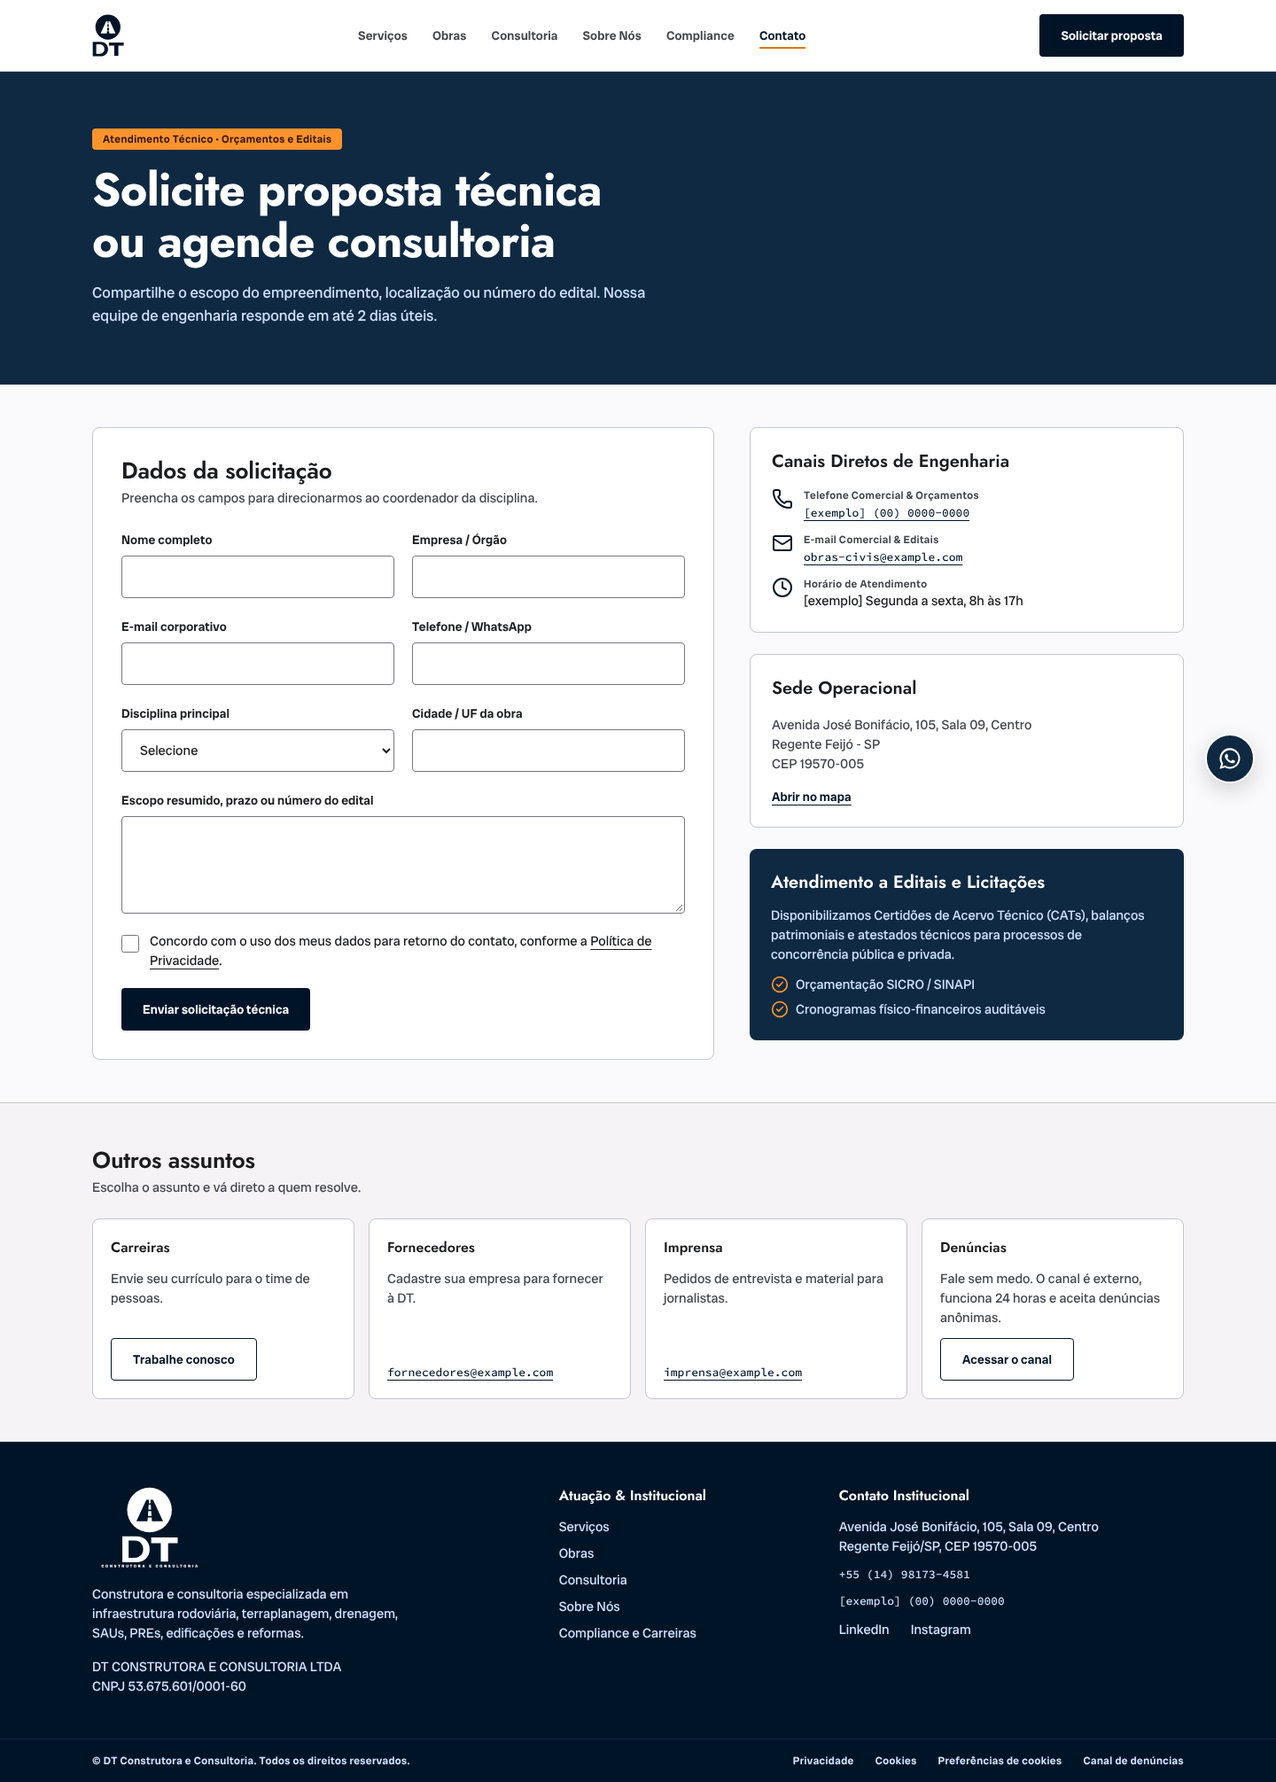
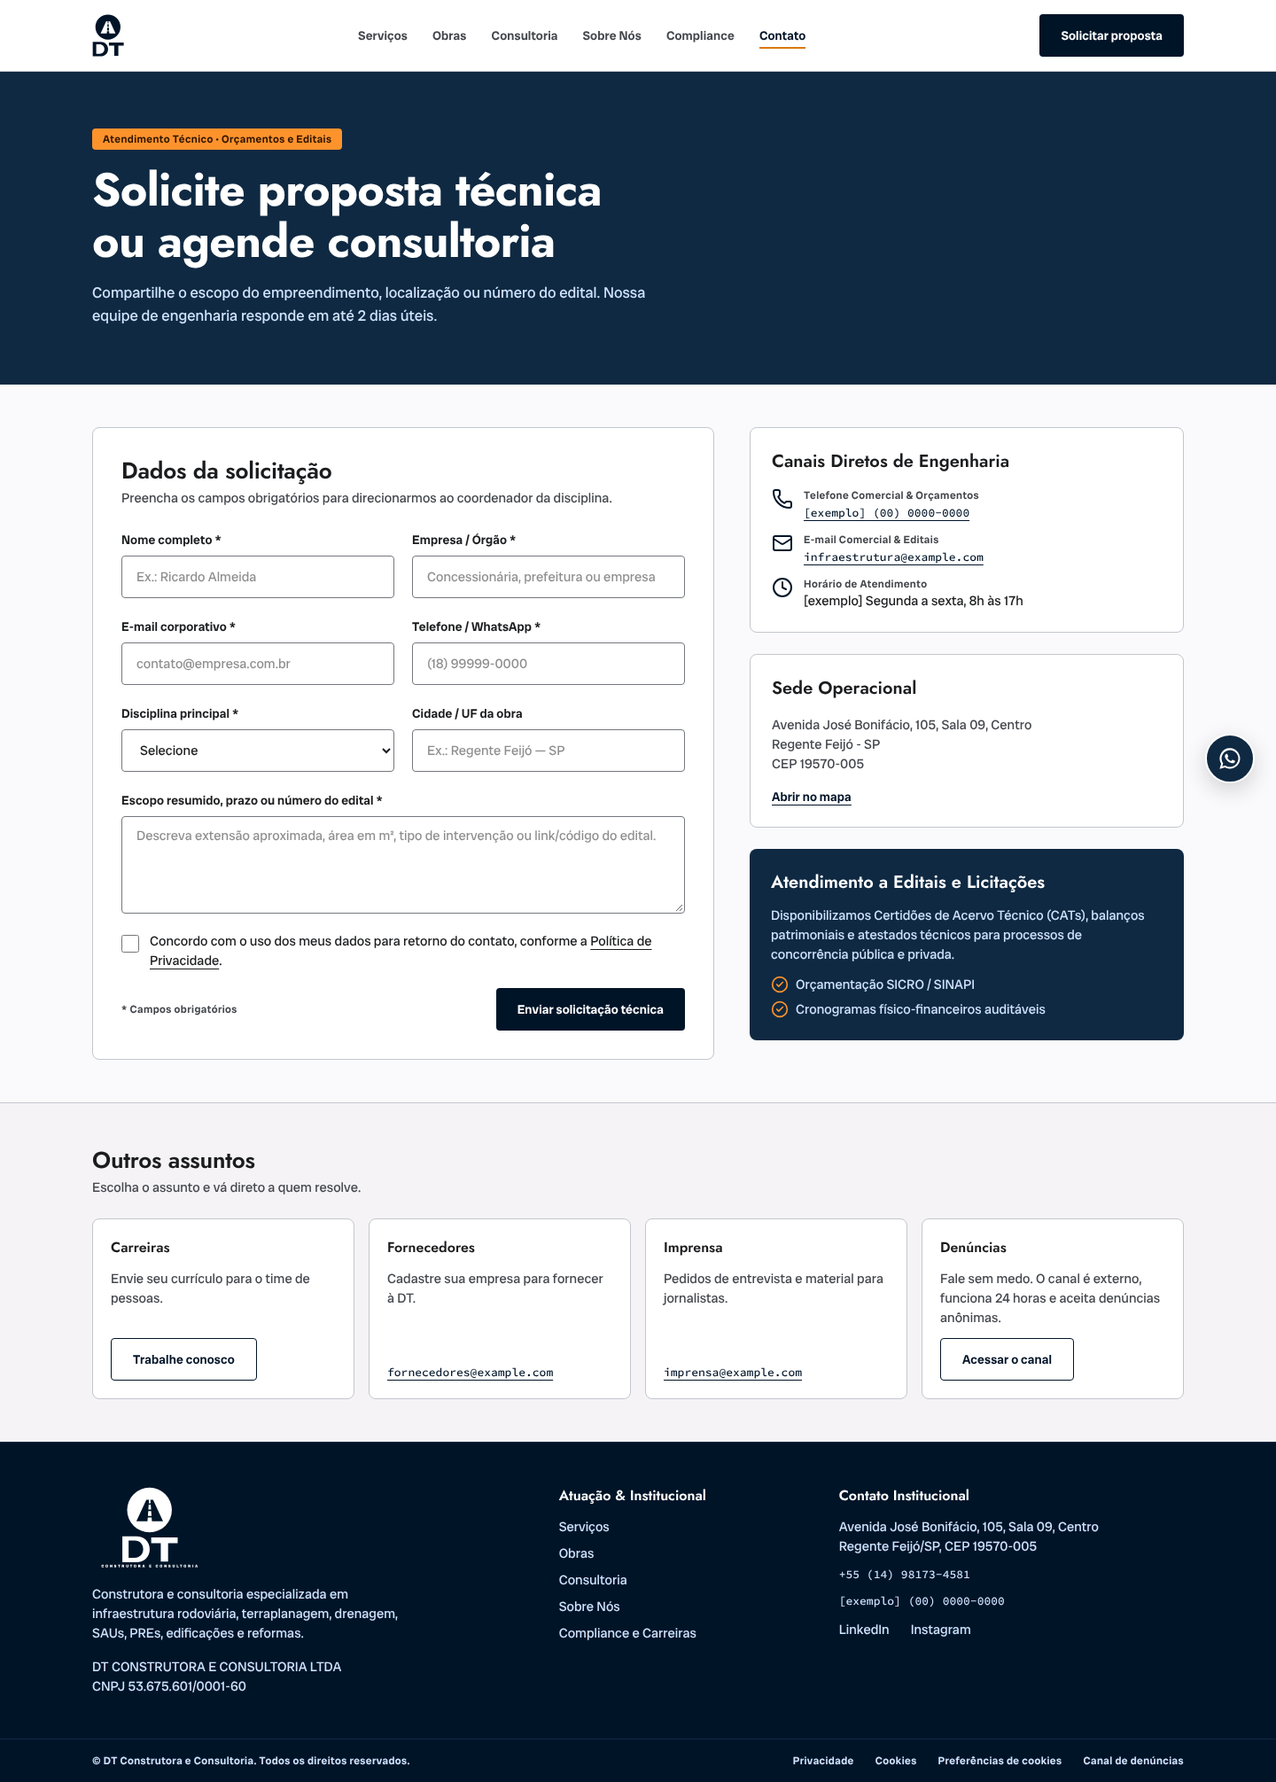
fix(layout): rótulos de disciplina, campos obrigatórios e minors do contato
Claude-Session: https://claude.ai/code/session_01FCUcKQCo7QrA5m6Gjb2c3P

diff --git a/src/components/forms/LeadForm.tsx b/src/components/forms/LeadForm.tsx
@@ -4,9 +4,9 @@ import { useActionState, useEffect, useRef } from "react";
 import { submitLead, type LeadFormState } from "@/app/contato/actions";
 import { Button } from "@/components/ui/Button";
 import { track } from "@/lib/analytics/track";
-import { DISCIPLINA_LABEL, DISCIPLINAS, type Disciplina } from "@/lib/disciplinas";
+import { DISCIPLINA_OPCAO, DISCIPLINAS, type Disciplina } from "@/lib/disciplinas";
 import { CONTROL_CLASS, Field } from "./Field";
-import { ConsentField, Honeypot, recoverAfterError, TurnstileWidget } from "./FormGuards";
+import { ConsentField, Honeypot, recoverAfterError, RequiredLegend, TurnstileWidget } from "./FormGuards";
 
 const SUCCESS = "Recebemos sua mensagem. Nossa equipe responde em até 2 dias úteis.";
 
@@ -53,36 +53,36 @@ export function LeadForm({ disciplinaInicial, origem, whatsappHref }: LeadFormPr
       )}
 
       <div className="grid gap-5 md:grid-cols-2">
-        <Field id="nome" label="Nome completo" error={errors.nome}>
-          {(a) => <input {...a} name="nome" type="text" autoComplete="name" defaultValue={values.nome} className={CONTROL_CLASS} />}
+        <Field id="nome" label="Nome completo" required error={errors.nome}>
+          {(a) => <input {...a} name="nome" placeholder="Ex.: Ricardo Almeida" type="text" autoComplete="name" defaultValue={values.nome} className={CONTROL_CLASS} />}
         </Field>
-        <Field id="empresa" label="Empresa / Órgão" error={errors.empresa}>
-          {(a) => <input {...a} name="empresa" type="text" autoComplete="organization" defaultValue={values.empresa} className={CONTROL_CLASS} />}
+        <Field id="empresa" label="Empresa / Órgão" required error={errors.empresa}>
+          {(a) => <input {...a} name="empresa" placeholder="Concessionária, prefeitura ou empresa" type="text" autoComplete="organization" defaultValue={values.empresa} className={CONTROL_CLASS} />}
         </Field>
-        <Field id="email" label="E-mail corporativo" error={errors.email}>
-          {(a) => <input {...a} name="email" type="email" autoComplete="email" defaultValue={values.email} className={CONTROL_CLASS} />}
+        <Field id="email" label="E-mail corporativo" required error={errors.email}>
+          {(a) => <input {...a} name="email" placeholder="contato@empresa.com.br" type="email" autoComplete="email" defaultValue={values.email} className={CONTROL_CLASS} />}
         </Field>
-        <Field id="telefone" label="Telefone / WhatsApp" error={errors.telefone}>
-          {(a) => <input {...a} name="telefone" type="tel" autoComplete="tel" defaultValue={values.telefone} className={CONTROL_CLASS} />}
+        <Field id="telefone" label="Telefone / WhatsApp" required error={errors.telefone}>
+          {(a) => <input {...a} name="telefone" placeholder="(18) 99999-0000" type="tel" autoComplete="tel" defaultValue={values.telefone} className={CONTROL_CLASS} />}
         </Field>
-        <Field id="disciplina" label="Disciplina principal" error={errors.disciplina}>
+        <Field id="disciplina" label="Disciplina principal" required error={errors.disciplina}>
           {(a) => (
             <select {...a} key={values.disciplina ?? "inicial"} name="disciplina" defaultValue={values.disciplina ?? disciplinaInicial ?? ""} className={CONTROL_CLASS}>
               <option value="">Selecione</option>
               {DISCIPLINAS.map((d) => (
                 <option key={d} value={d}>
-                  {DISCIPLINA_LABEL[d]}
+                  {DISCIPLINA_OPCAO[d]}
                 </option>
               ))}
             </select>
           )}
         </Field>
         <Field id="cidadeUf" label="Cidade / UF da obra" error={errors.cidadeUf}>
-          {(a) => <input {...a} name="cidadeUf" type="text" autoComplete="address-level2" defaultValue={values.cidadeUf} className={CONTROL_CLASS} />}
+          {(a) => <input {...a} name="cidadeUf" placeholder="Ex.: Regente Feijó — SP" type="text" autoComplete="address-level2" defaultValue={values.cidadeUf} className={CONTROL_CLASS} />}
         </Field>
       </div>
-      <Field id="escopo" label="Escopo resumido, prazo ou número do edital" error={errors.escopo}>
-        {(a) => <textarea {...a} name="escopo" rows={4} defaultValue={values.escopo} className={CONTROL_CLASS} />}
+      <Field id="escopo" label="Escopo resumido, prazo ou número do edital" required error={errors.escopo}>
+        {(a) => <textarea {...a} name="escopo" placeholder="Descreva extensão aproximada, área em m², tipo de intervenção ou link/código do edital." rows={4} defaultValue={values.escopo} className={CONTROL_CLASS} />}
       </Field>
 
       <ConsentField error={errors.consentimento}>Concordo com o uso dos meus dados para retorno do contato, conforme a</ConsentField>
@@ -92,8 +92,9 @@ export function LeadForm({ disciplinaInicial, origem, whatsappHref }: LeadFormPr
       <Honeypot />
       <TurnstileWidget />
 
-      <div>
-        <Button type="submit" disabled={pending} aria-disabled={pending}>
+      <div className="flex flex-wrap items-center justify-between gap-4">
+        <RequiredLegend />
+        <Button type="submit" disabled={pending} aria-disabled={pending} className="w-full sm:w-auto">
           {pending ? "Enviando…" : "Enviar solicitação técnica"}
         </Button>
       </div>

diff --git a/src/components/forms/CandidaturaForm.tsx b/src/components/forms/CandidaturaForm.tsx
@@ -4,7 +4,7 @@ import { useActionState, useEffect, useRef } from "react";
 import { submitCandidatura, type CandidaturaFormState } from "@/app/compliance/actions";
 import { Button } from "@/components/ui/Button";
 import { CONTROL_CLASS, Field } from "./Field";
-import { ConsentField, Honeypot, recoverAfterError, TurnstileWidget } from "./FormGuards";
+import { ConsentField, Honeypot, recoverAfterError, RequiredLegend, TurnstileWidget } from "./FormGuards";
 
 export const SUCCESS = "Recebemos sua candidatura. Se houver uma vaga compatível, entraremos em contato.";
 
@@ -38,18 +38,18 @@ export function CandidaturaForm({ areas }: { areas: string[] }) {
         </div>
       )}
 
-      <Field id="nome" label="Nome completo" error={errors.nome}>
+      <Field id="nome" label="Nome completo" required error={errors.nome}>
         {(a) => <input {...a} name="nome" type="text" autoComplete="name" defaultValue={values.nome} className={CONTROL_CLASS} />}
       </Field>
       <div className="grid grid-cols-1 gap-4 sm:grid-cols-2">
-        <Field id="email" label="E-mail" error={errors.email}>
+        <Field id="email" label="E-mail" required error={errors.email}>
           {(a) => <input {...a} name="email" type="email" autoComplete="email" defaultValue={values.email} className={CONTROL_CLASS} />}
         </Field>
-        <Field id="telefone" label="Telefone / WhatsApp" error={errors.telefone}>
+        <Field id="telefone" label="Telefone / WhatsApp" required error={errors.telefone}>
           {(a) => <input {...a} name="telefone" type="tel" autoComplete="tel" defaultValue={values.telefone} className={CONTROL_CLASS} />}
         </Field>
       </div>
-      <Field id={AREA_FIELD_ID} label="Área de interesse" error={errors.area}>
+      <Field id={AREA_FIELD_ID} label="Área de interesse" required error={errors.area}>
         {(a) => (
           // A chave remonta o select após um erro: `defaultValue` só vale na montagem.
           <select {...a} key={values.area ?? "inicial"} name="area" defaultValue={values.area ?? ""} className={CONTROL_CLASS}>
@@ -62,7 +62,7 @@ export function CandidaturaForm({ areas }: { areas: string[] }) {
           </select>
         )}
       </Field>
-      <Field id="resumo" label="Resumo de experiência / Link para currículo" error={errors.resumo}>
+      <Field id="resumo" label="Resumo de experiência / Link para currículo" required error={errors.resumo}>
         {(a) => (
           <textarea
             {...a}
@@ -82,9 +82,12 @@ export function CandidaturaForm({ areas }: { areas: string[] }) {
       <Honeypot />
       <TurnstileWidget />
 
-      <Button type="submit" disabled={pending} aria-disabled={pending} className="w-full">
-        {pending ? "Enviando…" : "Enviar candidatura"}
-      </Button>
+      <div className="flex flex-wrap items-center justify-between gap-4">
+        <RequiredLegend />
+        <Button type="submit" disabled={pending} aria-disabled={pending} className="w-full sm:w-auto">
+          {pending ? "Enviando…" : "Enviar candidatura"}
+        </Button>
+      </div>
     </form>
   );
 }

diff --git a/src/app/contato/page.tsx b/src/app/contato/page.tsx
@@ -39,8 +39,8 @@ export default async function ContatoPage({ searchParams }: { searchParams: Sear
   const { logradouro, cidade, uf, cep } = c.endereco;
   const mapa = `https://www.google.com/maps/search/?api=1&query=${encodeURIComponent(`${logradouro}, ${cidade} - ${uf}, ${cep}`)}`;
   const tel = c.telefone.replace(/[^\d+]/g, "");
-  const segmento: Segmento = disciplina ? DISCIPLINA_SEGMENTO[disciplina] : (Object.keys(c.emailsLead)[0] as Segmento);
-  const emailComercial = c.emailsLead[segmento];
+  const segmento: Segmento = disciplina ? DISCIPLINA_SEGMENTO[disciplina] : "infraestrutura";
+  const emailComercial = c.emailsLead[segmento] ?? Object.values(c.emailsLead).find(Boolean);
 
   return (
     <>
@@ -65,7 +65,7 @@ export default async function ContatoPage({ searchParams }: { searchParams: Sear
             <div className="flex flex-col gap-1">
               <h2 className="font-headline text-headline-md text-on-surface">Dados da solicitação</h2>
               <p className="font-body text-body-md text-on-surface-variant">
-                Preencha os campos para direcionarmos ao coordenador da disciplina.
+                Preencha os campos obrigatórios para direcionarmos ao coordenador da disciplina.
               </p>
             </div>
             <LeadForm disciplinaInicial={disciplina} origem={origem} whatsappHref={buildWhatsAppUrl(c.whatsapp, "/contato")} />
@@ -84,15 +84,17 @@ export default async function ContatoPage({ searchParams }: { searchParams: Sear
                     </a>
                   </div>
                 </li>
-                <li className="flex items-start gap-3">
-                  <Mail aria-hidden="true" className="size-6 shrink-0 text-primary" />
-                  <div>
-                    <span className={LABEL}>E-mail Comercial &amp; Editais</span>
-                    <a href={`mailto:${emailComercial}`} className={LINK}>
-                      {emailComercial}
-                    </a>
-                  </div>
-                </li>
+                {emailComercial && (
+                  <li className="flex items-start gap-3">
+                    <Mail aria-hidden="true" className="size-6 shrink-0 text-primary" />
+                    <div>
+                      <span className={LABEL}>E-mail Comercial &amp; Editais</span>
+                      <a href={`mailto:${emailComercial}`} className={LINK}>
+                        {emailComercial}
+                      </a>
+                    </div>
+                  </li>
+                )}
                 <li className="flex items-start gap-3">
                   <Clock aria-hidden="true" className="size-6 shrink-0 text-primary" />
                   <div>

diff --git a/src/components/forms/Field.tsx b/src/components/forms/Field.tsx
@@ -4,21 +4,26 @@ type FieldProps = {
   id: string;
   label: string;
   error?: string;
-  children: (a11y: { id: string; "aria-invalid"?: true; "aria-describedby"?: string }) => ReactNode;
+  /** Marca o campo como obrigatório: asterisco visual e `aria-required` no controle. */
+  required?: boolean;
+  children: (a11y: { id: string; "aria-required"?: true; "aria-invalid"?: true; "aria-describedby"?: string }) => ReactNode;
 };
 
 export const CONTROL_CLASS =
   "mt-1.5 block min-h-12 w-full rounded-sm border border-outline bg-surface-container-lowest px-4 py-2.5 font-body text-body-md text-on-surface aria-[invalid=true]:border-error focus-visible:border-primary focus-visible:outline-2 focus-visible:outline-offset-2 focus-visible:outline-primary";
 
 /** Rótulo + controle + erro ligados por `for`/`aria-describedby`; `children` recebe os atributos de a11y. */
-export function Field({ id, label, error, children }: FieldProps) {
+export function Field({ id, label, error, required, children }: FieldProps) {
   const errorId = `${id}-erro`;
   return (
     <div>
       <label htmlFor={id} className="font-label text-label-lg text-on-surface">
         {label}
+        {required && (
+          <span aria-hidden="true"> *</span>
+        )}
       </label>
-      {children({ id, ...(error ? { "aria-invalid": true as const, "aria-describedby": errorId } : {}) })}
+      {children({ id, ...(required ? { "aria-required": true as const } : {}), ...(error ? { "aria-invalid": true as const, "aria-describedby": errorId } : {}) })}
       {error && (
         <p id={errorId} className="mt-1.5 font-body text-body-md text-error">
           {error}

diff --git a/tests/e2e/contato.spec.ts b/tests/e2e/contato.spec.ts
@@ -87,6 +87,25 @@ test("funciona sem JavaScript", async ({ browser }) => {
   await ctx.close();
 });
 
+test("campos obrigatórios têm asterisco visual, aria-required e legenda; opções com o texto do layout", async ({ page }) => {
+  await page.goto("/contato");
+  for (const l of ["Nome completo", "Empresa / Órgão", "E-mail corporativo", "Telefone / WhatsApp", "Disciplina principal", "Escopo resumido, prazo ou número do edital"]) {
+    await expect(page.getByLabel(l)).toHaveAttribute("aria-required", "true");
+  }
+  await expect(page.getByLabel("Cidade / UF da obra")).not.toHaveAttribute("aria-required", "true");
+  await expect(page.getByText("* Campos obrigatórios")).toBeVisible();
+  await expect(page.getByText("Preencha os campos obrigatórios para direcionarmos ao coordenador da disciplina.")).toBeVisible();
+  const opcoes = await page.getByLabel("Disciplina principal").locator("option").allTextContents();
+  expect(opcoes).toEqual([
+    "Selecione",
+    "Obra rodoviária / pavimentação",
+    "Terraplanagem e drenagens",
+    "SAU / PRE rodoviário",
+    "Edificação / reforma predial",
+    "Consultoria / projeto / laudo",
+  ]);
+});
+
 test("consentimento não vem marcado", async ({ page }) => {
   await page.goto("/contato");
   await expect(page.getByLabel(/Concordo com o uso/)).not.toBeChecked();

diff --git a/src/lib/leads/send.ts b/src/lib/leads/send.ts
@@ -1,5 +1,5 @@
 import { Resend } from "resend";
-import { DISCIPLINA_LABEL, DISCIPLINA_SEGMENTO } from "@/lib/disciplinas";
+import { DISCIPLINA_OPCAO, DISCIPLINA_SEGMENTO } from "@/lib/disciplinas";
 import { SEGMENTO_LABEL } from "@/lib/segmentos";
 import type { Candidatura } from "./candidatura";
 import type { Lead } from "./schema";
@@ -9,12 +9,12 @@ const DEFAULT_FROM = "Site DT <site@dtconstrutora.com.br>";
 const oneLine = (s: string) => s.replace(/[\r\n\u0085\u2028\u2029]+/g, " ").trim();
 
 export function buildSubject(lead: Lead, unverified = false): string {
-  return `${unverified ? "[não verificado] " : ""}[Site] Lead ${DISCIPLINA_LABEL[lead.disciplina]} — ${oneLine(lead.empresa)}`;
+  return `${unverified ? "[não verificado] " : ""}[Site] Lead ${DISCIPLINA_OPCAO[lead.disciplina]} — ${oneLine(lead.empresa)}`;
 }
 
 function buildText(lead: Lead): string {
   return [
-    `Disciplina: ${DISCIPLINA_LABEL[lead.disciplina]}`,
+    `Disciplina: ${DISCIPLINA_OPCAO[lead.disciplina]}`,
     `Segmento: ${SEGMENTO_LABEL[DISCIPLINA_SEGMENTO[lead.disciplina]]}`,
     `Origem: ${lead.origem || "direto"}`,
     "",

diff --git a/tests/unit/leads/send.test.ts b/tests/unit/leads/send.test.ts
@@ -9,9 +9,9 @@ describe("send", () => {
   afterEach(() => vi.unstubAllEnvs());
 
   it("assunto segue o padrão e não aceita quebra de linha", () => {
-    expect(buildSubject(lead)).toBe("[Site] Lead Rodoviária e Pavimentação — Prefeitura de Exemplo");
+    expect(buildSubject(lead)).toBe("[Site] Lead Obra rodoviária / pavimentação — Prefeitura de Exemplo");
     expect(buildSubject({ ...lead, empresa: "A\r\nBcc: x@y.com\u0085\u2028\u2029B" })).not.toMatch(/[\r\n\u0085\u2028\u2029]/);
-    expect(buildSubject(lead, true)).toBe("[não verificado] [Site] Lead Rodoviária e Pavimentação — Prefeitura de Exemplo");
+    expect(buildSubject(lead, true)).toBe("[não verificado] [Site] Lead Obra rodoviária / pavimentação — Prefeitura de Exemplo");
   });
   it("sem RESEND_API_KEY usa transporte log, sem dados pessoais", async () => {
     vi.stubEnv("RESEND_API_KEY", "");

diff --git a/tests/unit/disciplinas.test.ts b/tests/unit/disciplinas.test.ts
@@ -3,6 +3,7 @@ import servicos from "@/lib/content/fixtures/servicos.json";
 import type { Servico } from "@/lib/content/types";
 import {
   DISCIPLINA_LABEL,
+  DISCIPLINA_OPCAO,
   DISCIPLINA_SEGMENTO,
   DISCIPLINAS,
   disciplinaDaObra,
@@ -20,6 +21,13 @@ describe("disciplinas", () => {
       "SAU e PRE",
       "Edificação e Reforma",
       "Consultoria",
+    ]);
+    expect(DISCIPLINAS.map((d) => DISCIPLINA_OPCAO[d])).toEqual([
+      "Obra rodoviária / pavimentação",
+      "Terraplanagem e drenagens",
+      "SAU / PRE rodoviário",
+      "Edificação / reforma predial",
+      "Consultoria / projeto / laudo",
     ]);
     expect(DISCIPLINA_SEGMENTO["edificacao-reforma"]).toBe("obras-civis");
     expect(DISCIPLINA_SEGMENTO.consultoria).toBe("infraestrutura");

diff --git a/src/lib/disciplinas.ts b/src/lib/disciplinas.ts
@@ -33,6 +33,15 @@ export const DISCIPLINA_LABEL: Record<Disciplina, string> = {
   consultoria: "Consultoria",
 };
 
+/** Texto das opções do formulário de contato e do assunto do e-mail (redação do layout). */
+export const DISCIPLINA_OPCAO: Record<Disciplina, string> = {
+  "rodoviaria-pavimentacao": "Obra rodoviária / pavimentação",
+  "terraplanagem-drenagens": "Terraplanagem e drenagens",
+  "sau-pre": "SAU / PRE rodoviário",
+  "edificacao-reforma": "Edificação / reforma predial",
+  consultoria: "Consultoria / projeto / laudo",
+};
+
 export const DISCIPLINA_SEGMENTO: Record<Disciplina, Segmento> = {
   "rodoviaria-pavimentacao": "infraestrutura",
   "terraplanagem-drenagens": "infraestrutura",

diff --git a/tests/e2e/compliance.spec.ts b/tests/e2e/compliance.spec.ts
@@ -79,3 +79,10 @@ test("consentimento não vem marcado e aponta para a Política de Privacidade", 
   await expect(page.getByLabel(/Concordo com o uso/)).not.toBeChecked();
   await expect(page.getByRole("link", { name: "Política de Privacidade" })).toHaveAttribute("href", "/privacidade");
 });
+
+test("candidatura marca os campos obrigatórios e mostra a legenda", async ({ page }) => {
+  await page.goto("/compliance");
+  await expect(page.getByLabel("Nome completo")).toHaveAttribute("aria-required", "true");
+  await expect(page.getByLabel("Área de interesse")).toHaveAttribute("aria-required", "true");
+  await expect(page.getByText("* Campos obrigatórios")).toBeVisible();
+});

diff --git a/tests/e2e/obras.spec.ts b/tests/e2e/obras.spec.ts
@@ -123,3 +123,12 @@ test("navegar para /obras pelo menu limpa os filtros", async ({ page }) => {
   await page.getByRole("banner").getByRole("link", { name: "Obras", exact: true }).first().click();
   await expect(page.getByLabel("Estado")).toHaveValue("");
 });
+
+test.describe("sem JavaScript no mobile", () => {
+  test.use({ javaScriptEnabled: false, viewport: { width: 390, height: 844 } });
+  test("filtros secundários ficam visíveis e 'Mais filtros' some", async ({ page }) => {
+    await page.goto("/obras");
+    await expect(page.getByLabel("Estado")).toBeVisible();
+    await expect(page.getByRole("button", { name: "Mais filtros" })).toBeHidden();
+  });
+});

diff --git a/src/components/forms/FormGuards.tsx b/src/components/forms/FormGuards.tsx
@@ -10,6 +10,11 @@ declare global {
 }
 
 /** Honeypot: invisível para pessoas e leitores de tela. */
+/** Legenda "* Campos obrigatórios", ao lado do botão de envio. */
+export function RequiredLegend() {
+  return <p className="font-label text-label-sm text-on-surface-variant">* Campos obrigatórios</p>;
+}
+
 export function Honeypot() {
   return (
     <div aria-hidden="true" className="absolute -left-[9999px] h-0 w-0 overflow-hidden">
